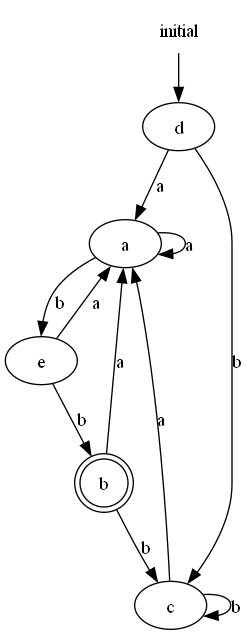
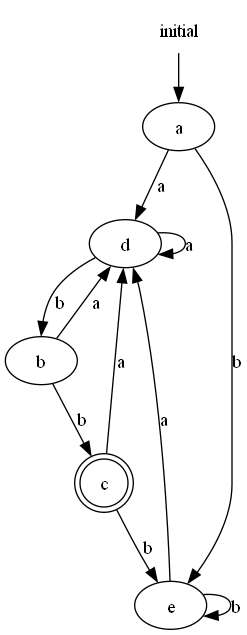
verificacion de cadena para afn

diff --git a/Project.py b/Project.py
@@ -142,7 +142,6 @@ class nfa:
         return transiciones
     
     
-
 def compile(pofix):
     # Creates new empty set
     nfaStack = []
@@ -197,7 +196,6 @@ def compile(pofix):
     return nfaStack.pop()
 
 
-
 def visualize_nfa(nfa):
     dot = graphviz.Digraph(format='png')
 
@@ -224,54 +222,6 @@ def visualize_nfa(nfa):
     add_states_edges(nfa.initial, set())
 
     dot.render('nfa_graph', view=True)
-
-
-# Helper function - Returns set of states that can be reached from state following e arrows
-def followes(state):
-    # Create a new set, with state as its only member
-    states = set()
-    states.add(state)
-
-    # Check if state has arrows labelled e from it
-    if state.label is None:
-        # If there's an 'edge1', follow it
-        if state.edge1 is not None:
-            states |= followes(state.edge1)
-        # If there's an 'edge2', follow it
-        if state.edge2 is not None:
-            states |= followes(state.edge2)
-
-    # Returns the set of states
-    return states
-
-
-# Matches a string to an infix regular expression
-def match(infix, string):
-    # Shunt and compile the regular expression
-    postfix = shunt(infix)
-    nfa = compile(postfix)
-
-    # The current set of states and the next set of states
-    current = set()
-    nexts = set()
-
-    # Add the initial state to the current set
-    current |= followes(nfa.initial)
-
-    # loop through each character in the string
-    for s in string:
-        # loop through the current set of states
-        for c in current:
-            # Check to see if state is labelled 's'
-            if c.label == s:
-                nexts |= followes(c.edge1)
-        # set current to next and clears out next
-        current = nexts
-        # next is back to an empty set
-        nexts = set()
-
-    # Checks if the accept state is in the set for current state
-    return (nfa.accept in current)
 
 
 class DFA:
@@ -349,9 +299,34 @@ def draw_dfa(dfa):
     return dot
 
 
+def match(string, nfa):
+    # Shunt and compile the regular expression
+
+    # The current set of states and the next set of states
+    current = set()
+    nexts = set()
+
+    # Add the initial state to the current set
+    current |= followes(nfa.initial)
+
+    # loop through each character in the string
+    for s in string:
+        # loop through the current set of states
+        for c in current:
+            # Check to see if state is labelled 's'
+            if c.label == s:
+                nexts |= followes(c.edge1)
+        # set current to next and clears out next
+        current = nexts
+        # next is back to an empty set
+        nexts = set()
+
+    # Checks if the accept state is in the set for current state
+    return (nfa.accept in current)
+
 # Ejemplo de uso
-#exp = '(b|b)*.a.b.b.(a|b)*'
-exp = '(a|b)*.a.b.b'
+exp = '(b|b)*.a.b.b.(a|b)*'
+#exp = '(a|b)*.a.b.b'
 infix = convert_optional(exp)
 infix,alfabeto = convertir_expresion(infix)
 print(infix)
@@ -359,18 +334,8 @@ print(alfabeto)
 postfix = shunt(infix)
 print(postfix)
 nfa = compile(postfix)
-visualize_nfa(nfa)
+#visualize_nfa(nfa)
 dfa = nfa_to_dfa(nfa, alfabeto)
 state_labels = label_states(dfa.states)
-draw_dfa(dfa).render('dfa_graph', view=True)
-
-
-# Testcases for the matchString function
-'''
-infixes = ["a.b.c*", "a.(b|d).c*", "(a.(b|d))*", "a.(b.b)*.c"]
-strings = ["", "abc", "abbc", "abcc", "abad", "abbbc"]
-
-for i in infixes:
-  for s in strings:
-    print(match(i, s), i, s)
-'''
+#draw_dfa(dfa).render('dfa_graph', view=True)
+print('el resultado de la simulasión es: ',match('bbabba', nfa))
